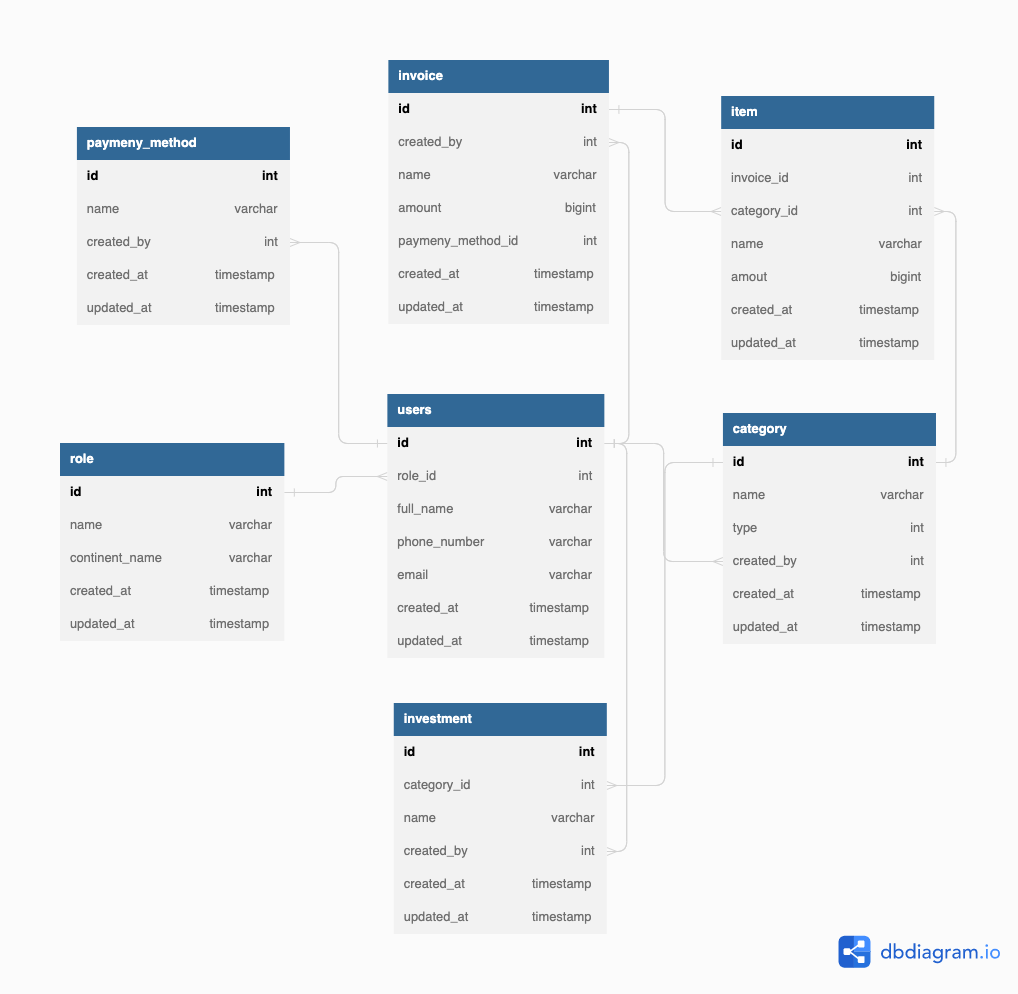
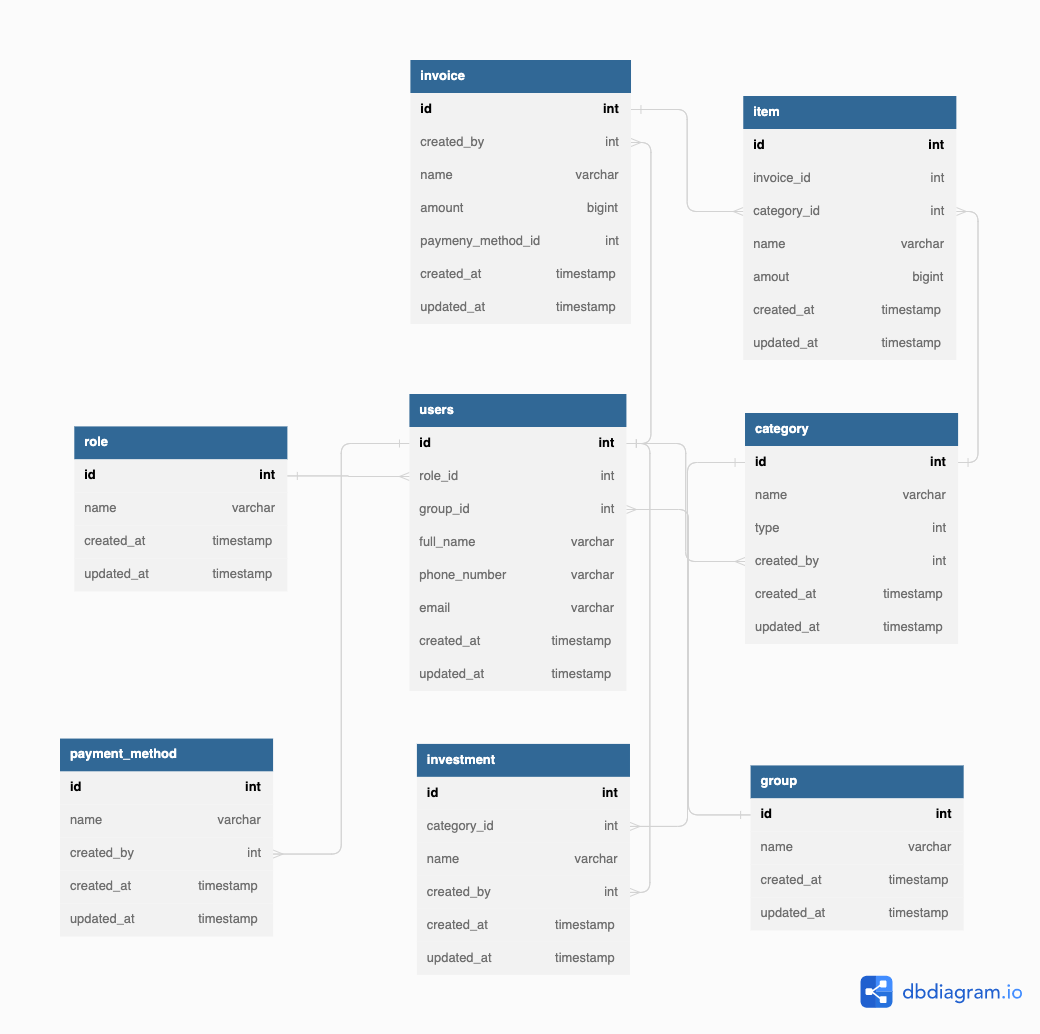
add traits & try impl traot for user

diff --git a/src-tauri/modules/common/src/repository/impl_traits/users_repository.rs b/src-tauri/modules/common/src/repository/impl_traits/users_repository.rs
@@ -1,0 +1,41 @@
+use crate::repository::traits::generic_trait::GenericRepository;
+use crate::{repository::traits::users_trait::UsersRepository, Context};
+use anyhow::{anyhow, bail, Result};
+use async_trait::async_trait;
+
+#[derive(Clone)]
+pub struct UsersRdbRepository {}
+
+#[async_trait]
+impl<Users, UsersFilterRequest, UserCollection>
+    GenericRepository<Users, UsersFilterRequest, UserCollection> for UsersRdbRepository
+{
+    async fn find_by_id(&self, context: &Context, id: u32) -> Result<Users> {
+        !unimplemented!();
+    }
+
+    async fn find_all(
+        &self,
+        filter: Option<UsersFilterRequest>,
+        limit: usize,
+        offset: usize,
+    ) -> Result<UserCollection> {
+        !unimplemented!();
+    }
+
+    async fn find_count(&self, filter: Option<UsersFilterRequest>) -> Result<usize> {
+        !unimplemented!();
+    }
+
+    async fn create(&self, entity: Users) -> Result<()> {
+        !unimplemented!();
+    }
+
+    async fn update(&self, entity: Users) -> Result<()> {
+        !unimplemented!();
+    }
+
+    async fn delete(&self, entity: Users) -> Result<()> {
+        !unimplemented!();
+    }
+}

diff --git a/src-tauri/modules/common/src/repository/traits/generic_trait.rs b/src-tauri/modules/common/src/repository/traits/generic_trait.rs
@@ -1,0 +1,36 @@
+
+use crate::shared::Context;
+use async_trait::async_trait;
+use anyhow::Result;
+
+#[async_trait]
+pub trait GenericRepository<T, U, V> {
+    async fn find_by_id(&self, context: &Context, id: u32) -> Result<T>;
+
+    async fn find_all(
+        &self,
+        filter: Option<U>,
+        limit: usize,
+        offset: usize,
+    ) -> Result<V>;
+
+    async fn find_count(
+        &self,
+        filter: Option<U>,
+    ) -> Result<usize>;
+
+    async fn create(
+        &self,
+        entity: T,
+    ) -> Result<()>;
+
+    async fn update(
+        &self,
+        entity: T,
+    ) -> Result<()>;
+
+    async fn delete(
+        &self,
+        entity: T,
+    ) -> Result<()>;
+}

diff --git a/src-tauri/modules/common/src/request/users_request.rs b/src-tauri/modules/common/src/request/users_request.rs
@@ -1,0 +1,29 @@
+use derive_getters::Getters;
+use derive_new::new;
+
+#[derive(Clone, Debug, Getters, new)]
+pub struct CreateUserRequest {
+    pub role_id: i32,
+    pub full_name: Option<String>,
+    pub phone_number: Option<String>,
+    pub email: Option<String>,
+}
+
+#[derive(Clone, Debug, Getters, new)]
+pub struct UpdateUserRequest {
+    id: i32,
+    pub role_id: i32,
+    pub full_name: Option<String>,
+    pub phone_number: Option<String>,
+    pub email: Option<String>,
+}
+
+#[derive(Clone, Debug, Getters, new)]
+pub struct DeleteUserRequest {
+    id: i32,
+}
+
+#[derive(Clone, Debug, Getters, new)]
+pub struct UsersFilterRequest {
+    search_string: Option<String>,
+}

diff --git a/src-tauri/modules/common/src/entities/users.rs b/src-tauri/modules/common/src/entities/users.rs
@@ -24,8 +24,8 @@ pub enum Relation {
     Investment,
     #[sea_orm(has_many = "super::invoice::Entity")]
     Invoice,
-    #[sea_orm(has_many = "super::paymeny_method::Entity")]
-    PaymenyMethod,
+    #[sea_orm(has_many = "super::payment_method::Entity")]
+    PaymentMethod,
     #[sea_orm(
         belongs_to = "super::role::Entity",
         from = "Column::RoleId",
@@ -54,9 +54,9 @@ impl Related<super::invoice::Entity> for Entity {
     }
 }
 
-impl Related<super::paymeny_method::Entity> for Entity {
+impl Related<super::payment_method::Entity> for Entity {
     fn to() -> RelationDef {
-        Relation::PaymenyMethod.def()
+        Relation::PaymentMethod.def()
     }
 }
 

diff --git a/src-tauri/modules/common/src/entities/prelude.rs b/src-tauri/modules/common/src/entities/prelude.rs
@@ -4,6 +4,6 @@ pub use super::category::Entity as Category;
 pub use super::investment::Entity as Investment;
 pub use super::invoice::Entity as Invoice;
 pub use super::item::Entity as Item;
-pub use super::paymeny_method::Entity as PaymenyMethod;
+pub use super::payment_method::Entity as PaymentMethod;
 pub use super::role::Entity as Role;
 pub use super::users::Entity as Users;

diff --git a/src-tauri/modules/common/src/entities/payment_method.rs b/src-tauri/modules/common/src/entities/payment_method.rs
@@ -3,7 +3,7 @@
 use sea_orm::entity::prelude::*;
 
 #[derive(Clone, Debug, PartialEq, DeriveEntityModel, Eq)]
-#[sea_orm(schema_name = "money_management", table_name = "paymeny_method")]
+#[sea_orm(schema_name = "money_management", table_name = "payment_method")]
 pub struct Model {
     #[sea_orm(primary_key)]
     pub id: i32,

diff --git a/src-tauri/modules/common/src/collections/user_collection.rs b/src-tauri/modules/common/src/collections/user_collection.rs
@@ -1,0 +1,12 @@
+use crate::entities::users::Model;
+use derive_getters::Getters;
+use derive_new::new;
+use serde::Serialize;
+
+#[derive(Clone, Debug, Getters, new)]
+pub struct UserCollection {
+    list: Vec<Model>,
+    total_count: usize,
+    limit: usize,
+    offset: usize,
+}

diff --git a/src-tauri/modules/common/src/repository/traits.rs b/src-tauri/modules/common/src/repository/traits.rs
@@ -1,0 +1,8 @@
+pub mod generic_trait;
+pub mod category_trait;
+pub mod investment_trait;
+pub mod invoice_trait;
+pub mod item_trait;
+pub mod payment_method_trait;
+pub mod role_trait;
+pub mod users_trait;

diff --git a/src-tauri/modules/common/src/lib.rs b/src-tauri/modules/common/src/lib.rs
@@ -1,6 +1,9 @@
 pub mod shared;
+pub mod entities;
+pub mod repository;
+pub mod request;
+pub mod collections;
 pub use shared::*;
-// pub mod entities;
 
 #[cfg(test)]
 mod tests {

diff --git a/src-tauri/modules/common/src/entities/mod.rs b/src-tauri/modules/common/src/entities/mod.rs
@@ -6,6 +6,6 @@ pub mod category;
 pub mod investment;
 pub mod invoice;
 pub mod item;
-pub mod paymeny_method;
+pub mod payment_method;
 pub mod role;
 pub mod users;

diff --git a/src-tauri/modules/common/src/repository/traits/category_trait.rs b/src-tauri/modules/common/src/repository/traits/category_trait.rs
@@ -1,0 +1,6 @@
+
+use crate::shared::Context;
+
+pub trait CategoryRepository {
+    
+}

diff --git a/src-tauri/modules/common/src/repository/traits/payment_method_trait.rs b/src-tauri/modules/common/src/repository/traits/payment_method_trait.rs
@@ -1,0 +1,6 @@
+
+
+
+pub trait PaymentMethodRepository {
+    
+}
